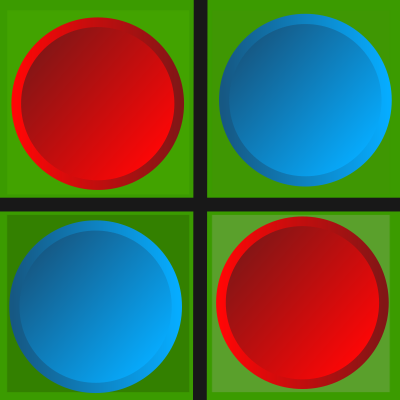
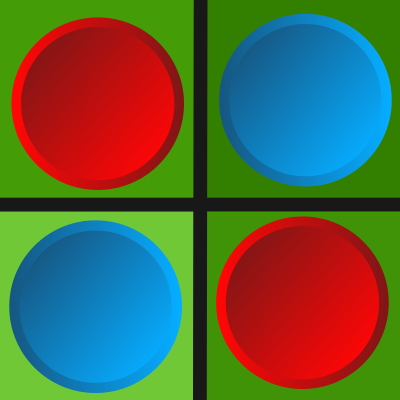
BETA Version 1.0.6.3

diff --git a/gfx.py b/gfx.py
@@ -1,5 +1,4 @@
 import pygame
-import random
 import core
 
 pygame.init()
@@ -8,6 +7,7 @@ BLACK = (0, 0, 0)
 WHITE = (255, 255, 255)
 BLUE = (0, 0, 128)
 RED = (200, 0, 0)
+GREEN =(20, 163, 58)
 
 
 
@@ -22,10 +22,10 @@ pygame.display.set_icon(gameIcon)
 
 
 
-def     pos_to_case(pos):
+def     pos_to_case(pos,long,larg):
     return (
-        int(pos[0] / core.TILE_SIZE) % 8,
-        int(pos[1] / core.TILE_SIZE) % 8,
+        int(pos[0] / core.TILE_SIZE) % larg,
+        int(pos[1] / core.TILE_SIZE) % long,
     )
 
 def draw_line(screen, start, end, color=BLACK):
@@ -37,24 +37,19 @@ def draw_line(screen, start, end, color=BLACK):
         7
     )
 
-def draw_grid_lines(screen):
+def draw_grid_lines(screen, long,larg):
     # vertical lines
-    draw_line(screen, (1, 0), (1, 8))
-    draw_line(screen, (2, 0), (2, 8))
-    draw_line(screen, (3, 0), (3, 8))
-    draw_line(screen, (4, 0), (4, 8))
-    draw_line(screen, (5, 0), (5, 8))
-    draw_line(screen, (6, 0), (6, 8))
-    draw_line(screen, (7, 0), (7, 8))
+    if long>larg:
+        max = long
+    else:
+        max = larg
+
+    for i in range(larg-1):
+        draw_line(screen, (i+1, 0), (i+1,max))
 
     # horizontal lines
-    draw_line(screen, (0, 1), (8, 1))
-    draw_line(screen, (0, 2), (8, 2))
-    draw_line(screen, (0, 3), (8, 3))
-    draw_line(screen, (0, 4), (8, 4))
-    draw_line(screen, (0, 5), (8, 5))
-    draw_line(screen, (0, 6), (8, 6))
-    draw_line(screen, (0, 7), (8, 7))
+    for i in range(larg-1):
+        draw_line(screen, (0, i+1), (max,i+1))
 
 def draw_player(coordinates, player):
     blue_pawn = pygame.image.load("Assets/blue_pawn.png")
@@ -89,13 +84,13 @@ def load_player():
 def run_othello():
     running = True
     while running:
-
+        screen.fill(GREEN)
         for event in pygame.event.get():
             if event.type == pygame.QUIT:
                 running = False
             if event.type == pygame.MOUSEBUTTONDOWN:
                 pos = pygame.mouse.get_pos()
-                case = pos_to_case(pos)
+                case = pos_to_case(pos, core.BOARD_HEIGHT, core.BOARD_WIDTH)
                 print(case)
                 core.play(case)
         
@@ -103,5 +98,5 @@ def run_othello():
         screen.blit(background, (0, 0))  # Affiche l’image à la position (0, 0) (code généré par copilot)
 
         load_player()
-        draw_grid_lines(screen)# draw_grid()
+        draw_grid_lines(screen,core.BOARD_HEIGHT,core.BOARD_WIDTH)# draw_grid()
         pygame.display.flip()  # Met à jour l’écran

diff --git a/core.py b/core.py
@@ -1,20 +1,34 @@
 import gfx
 
-grid = [
-    [None, None, None, None, None, None, None, None],
-    [None, None, None, None, None, None, None, None],
-    [None, None, None, None, None, None, None, None],
-    [None, None, None, 0, 1, None, None, None],
-    [None, None, None, 1, 0, None, None, None],
-    [None, None, None, None, None, None, None, None],
-    [None, None, None, None, None, None, None, None],
-    [None, None, None, None, None, None, None, None],
-]
+def create_grid(long,larg):
+    grid = []
+    for i in range(long):
+        row = []
+        for j in range(larg):
+            row.append(None)
+        grid.append(row)
+
+    middlex = int(long/2)
+    middley= int(larg/2)
+
+    grid[middley-1][middlex-1] = 0
+    grid[middley][middlex-1] = 1
+    grid[middley][middlex] = 0
+    grid[middley-1][middlex] = 1
+
+    return grid
+
+    
+
+
+    
 
 BOARD_WIDTH = 8
 BOARD_HEIGHT = 8
 TILE_SIZE = 100
 
+grid = create_grid(BOARD_HEIGHT,BOARD_WIDTH)
+print(grid)
 def play(coordinates):
     global grid, current_player
 
